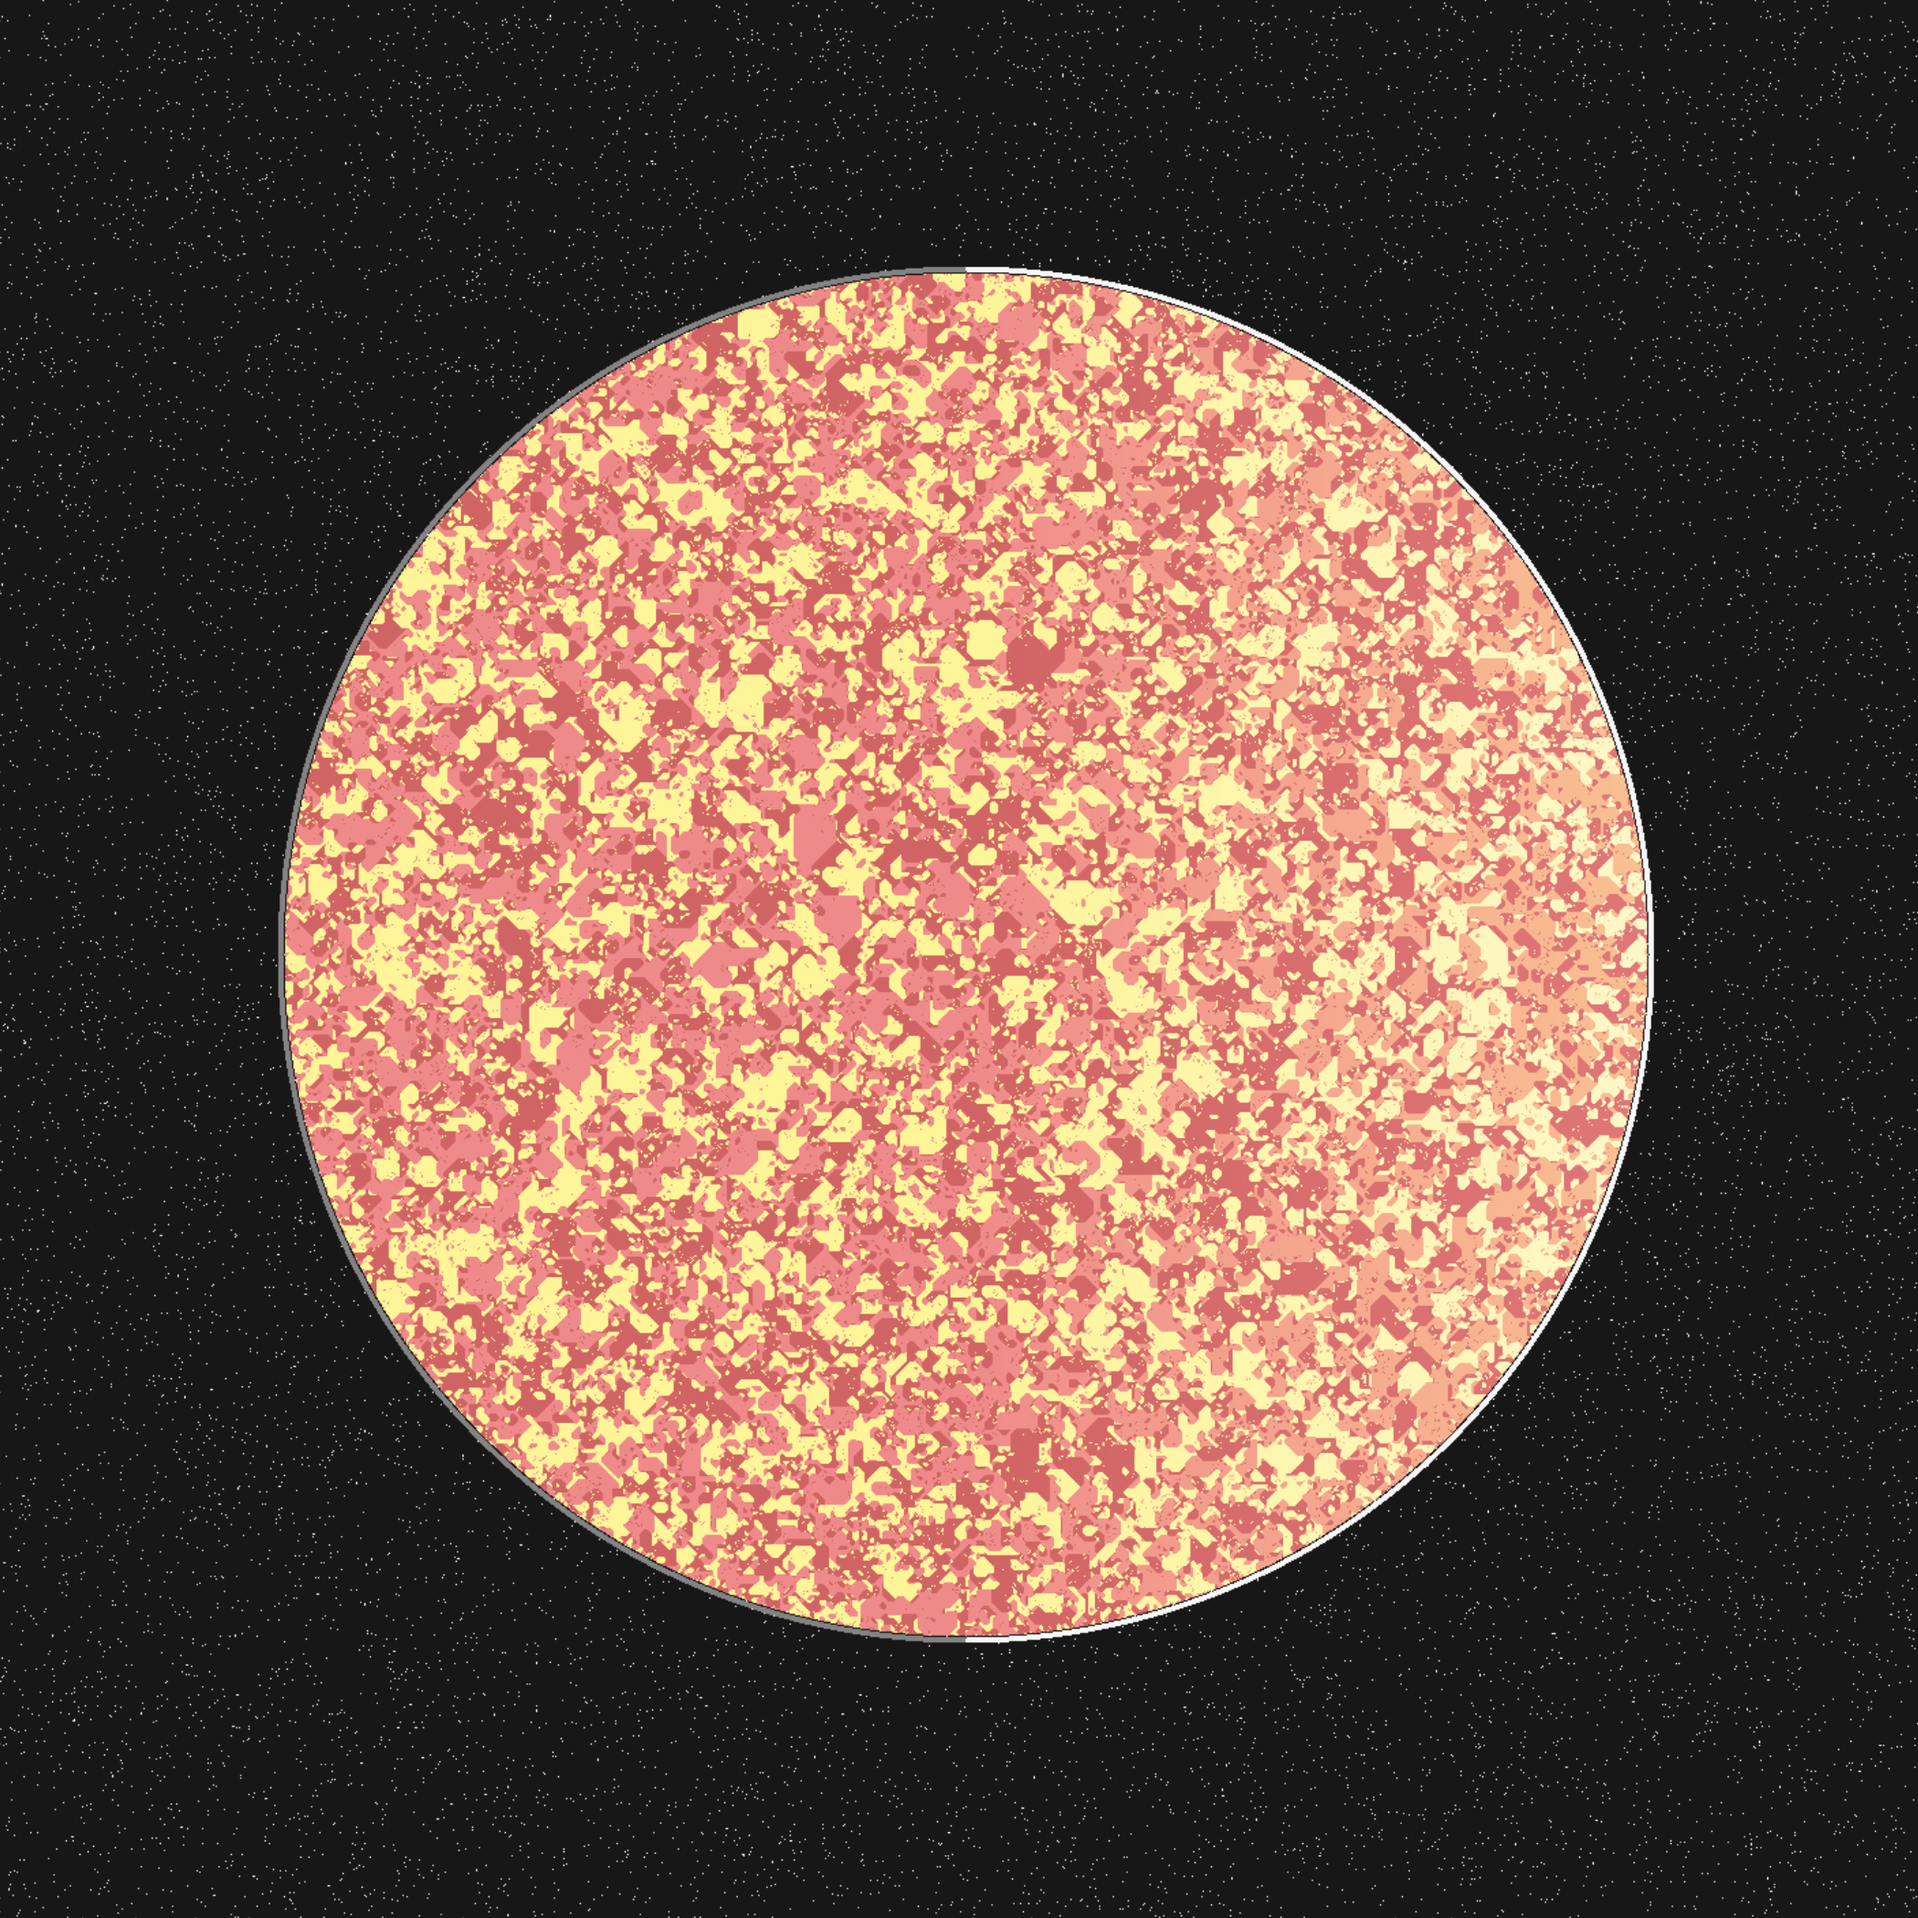
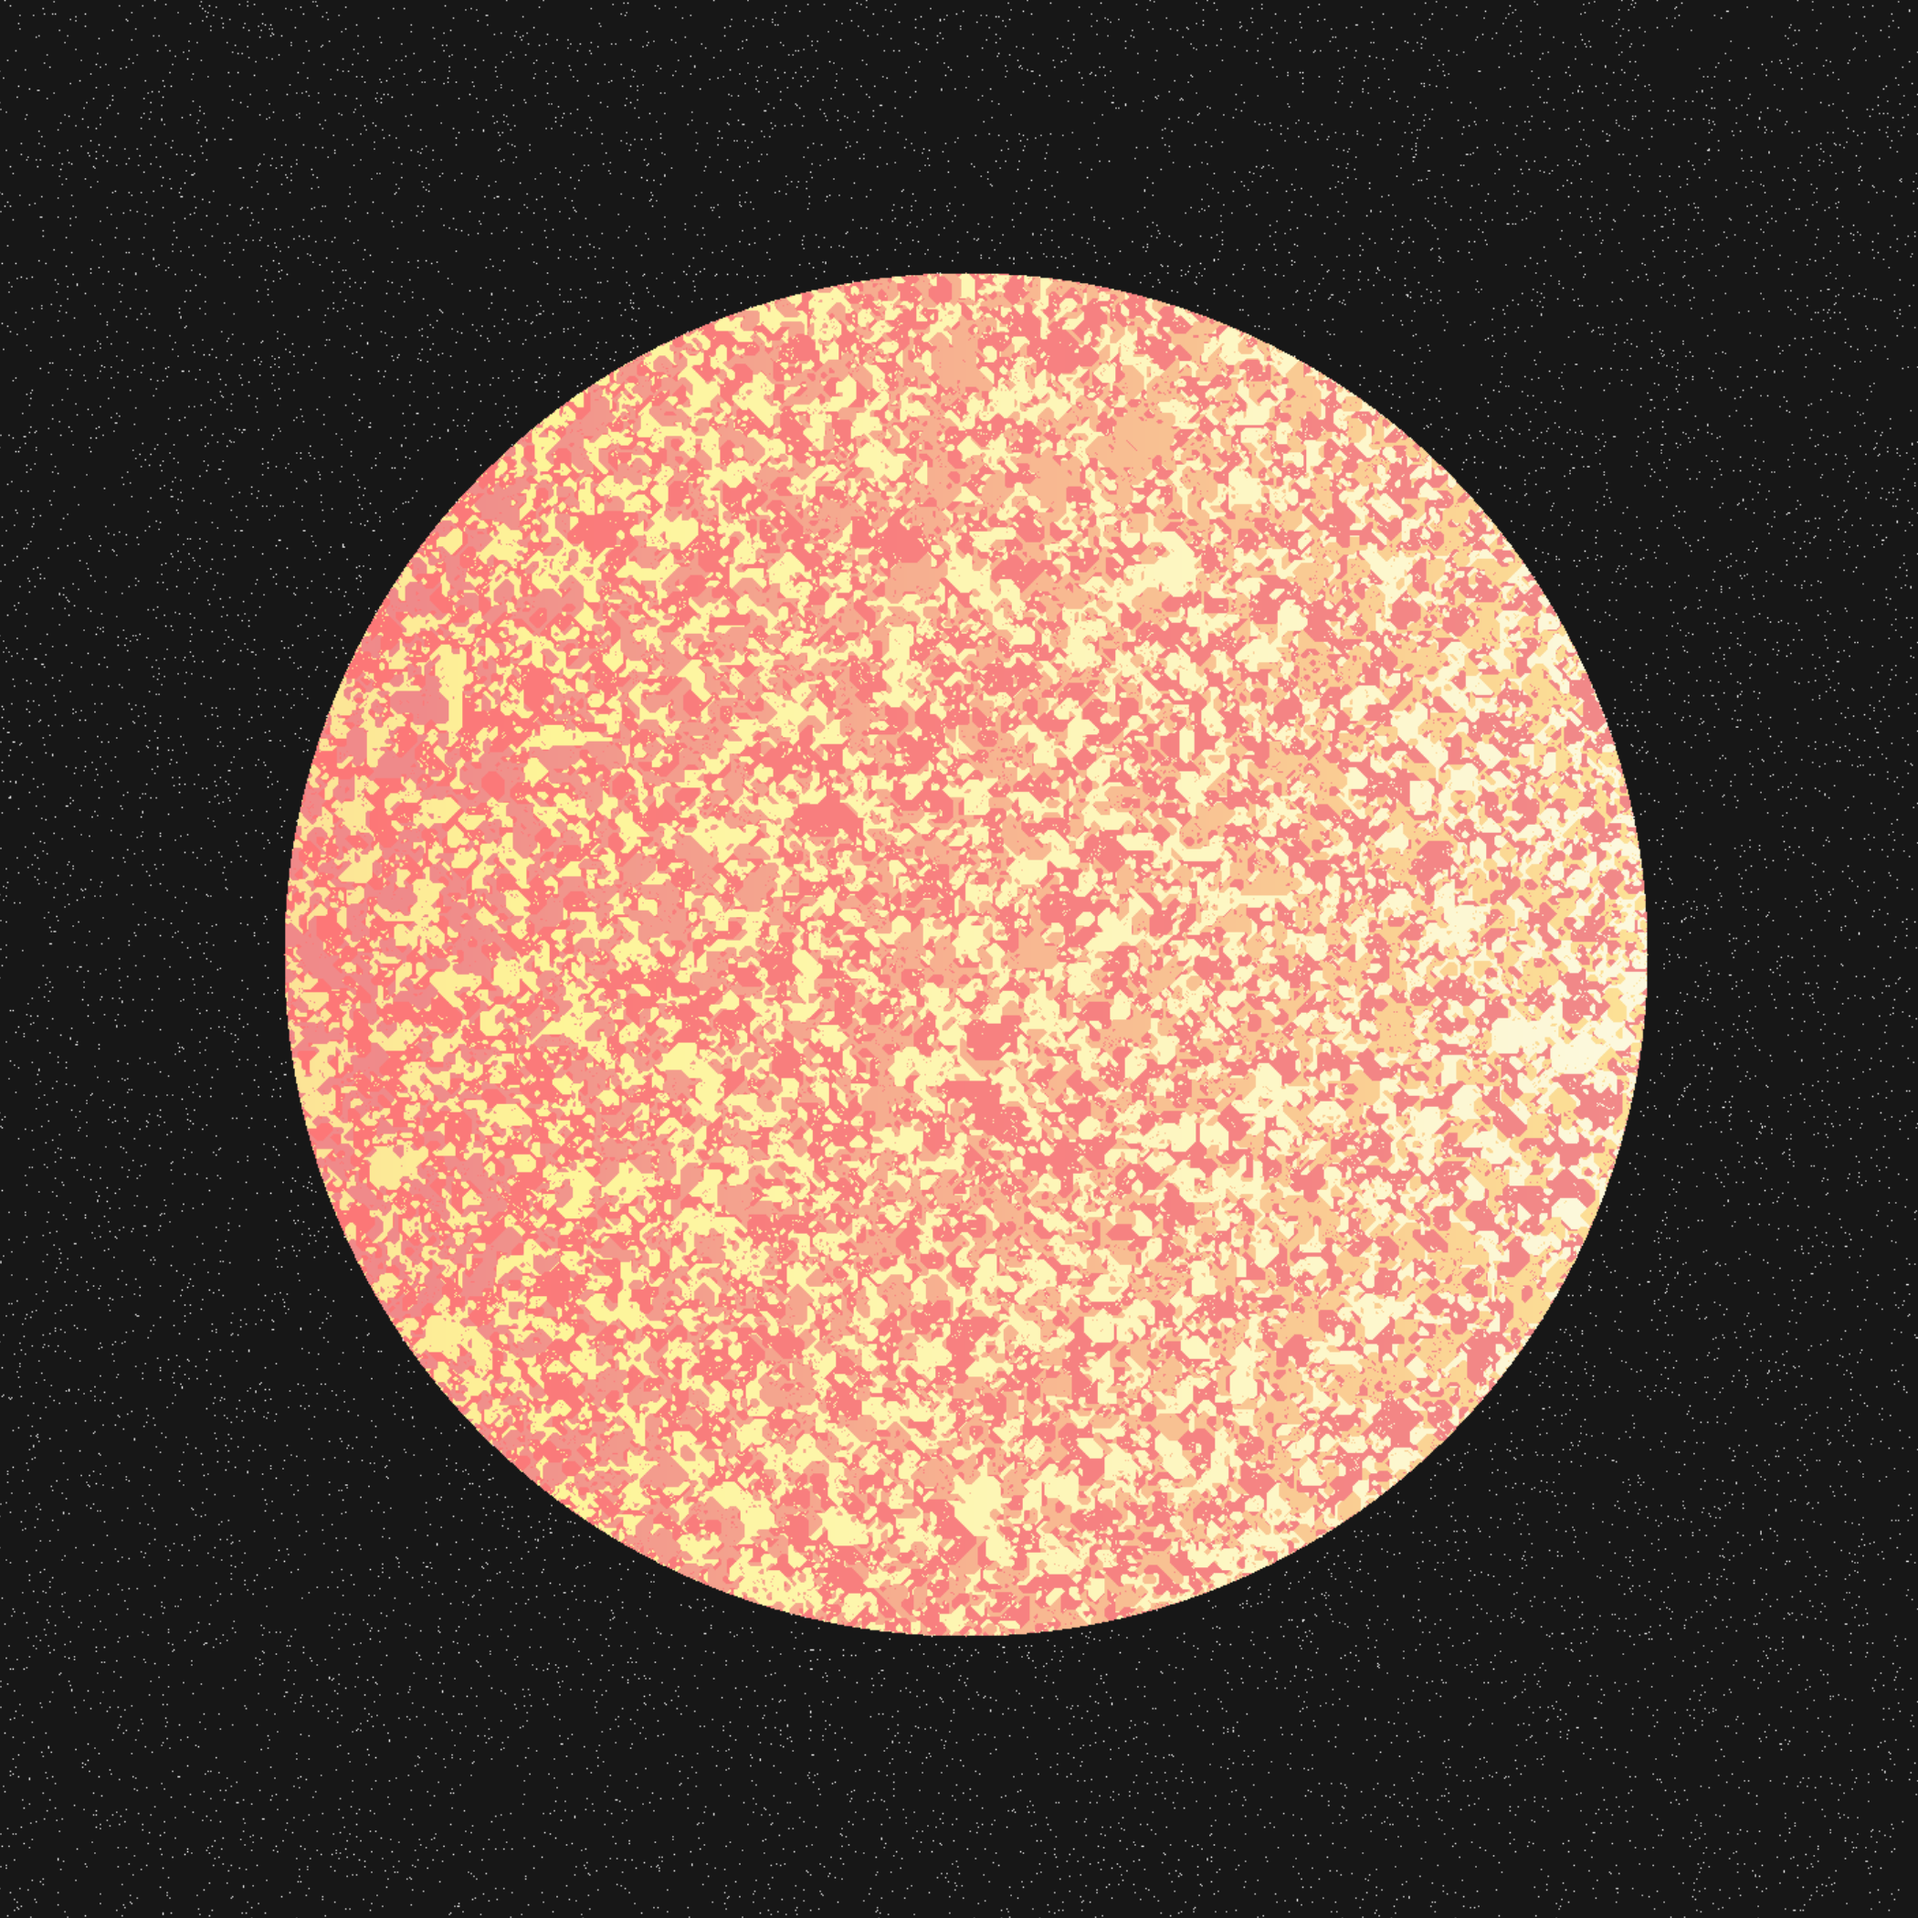
Update

diff --git a/src/paint_planet.cpp b/src/paint_planet.cpp
@@ -39,15 +39,15 @@ arma::mat iterate_planet(arma::mat X,
       } else if(dist > (radius + 1) && dist < ceil(radius * 1.01)) { // Check if edge point
 		if (lightright == 0) {
 		  if(col > xcenter) {
-			X(row, col) = 1;//1; // Dark edge = gray
+			X(row, col) = 0;//1; // Dark edge = gray
 		  } else {
-			X(row, col) = 2; // Light edge = white
+			X(row, col) = 0;//2; // Light edge = white
 		  }
 		} else {
 		  if(col < xcenter) {
-			X(row, col) = 1;//1; // Dark edge = gray
+			X(row, col) = 0;//1; // Dark edge = gray
 		  } else {
-			X(row, col) = 2; // Light edge = white
+			X(row, col) = 0;//2; // Light edge = white
 		  }			
 		}
 	  } else { // Check if star point
@@ -93,10 +93,18 @@ arma::mat iterate_planet(arma::mat X,
       int xpoint = xcircle[ii];
       int ypoint = ycircle[ii];
 	  float xdist = abs(xcenter - xpoint);
-	  if(lightright == 0 && xpoint < xcenter) {
-		X(ypoint, xpoint) = X(ypoint, xpoint) - (fade * (xdist / radius));
-	  } else if(lightright == 1 && xpoint > xcenter) {
-		X(ypoint, xpoint) = X(ypoint, xpoint) - (fade * (xdist / radius));
+	  if(lightright == 0) {
+		  if(xpoint < xcenter) {
+			  X(ypoint, xpoint) = X(ypoint, xpoint) - (fade * (xdist / radius));
+		  } else {
+			  X(ypoint, xpoint) = X(ypoint, xpoint) + (fade * (xdist / radius));
+		  }
+	  } else if(lightright == 1) {
+		  if(xpoint > xcenter) {
+			  X(ypoint, xpoint) = X(ypoint, xpoint) - (fade * (xdist / radius));
+		  } else {
+			  X(ypoint, xpoint) = X(ypoint, xpoint) + (fade * (xdist / radius));
+		  }
 	  }
   }
   return X;
